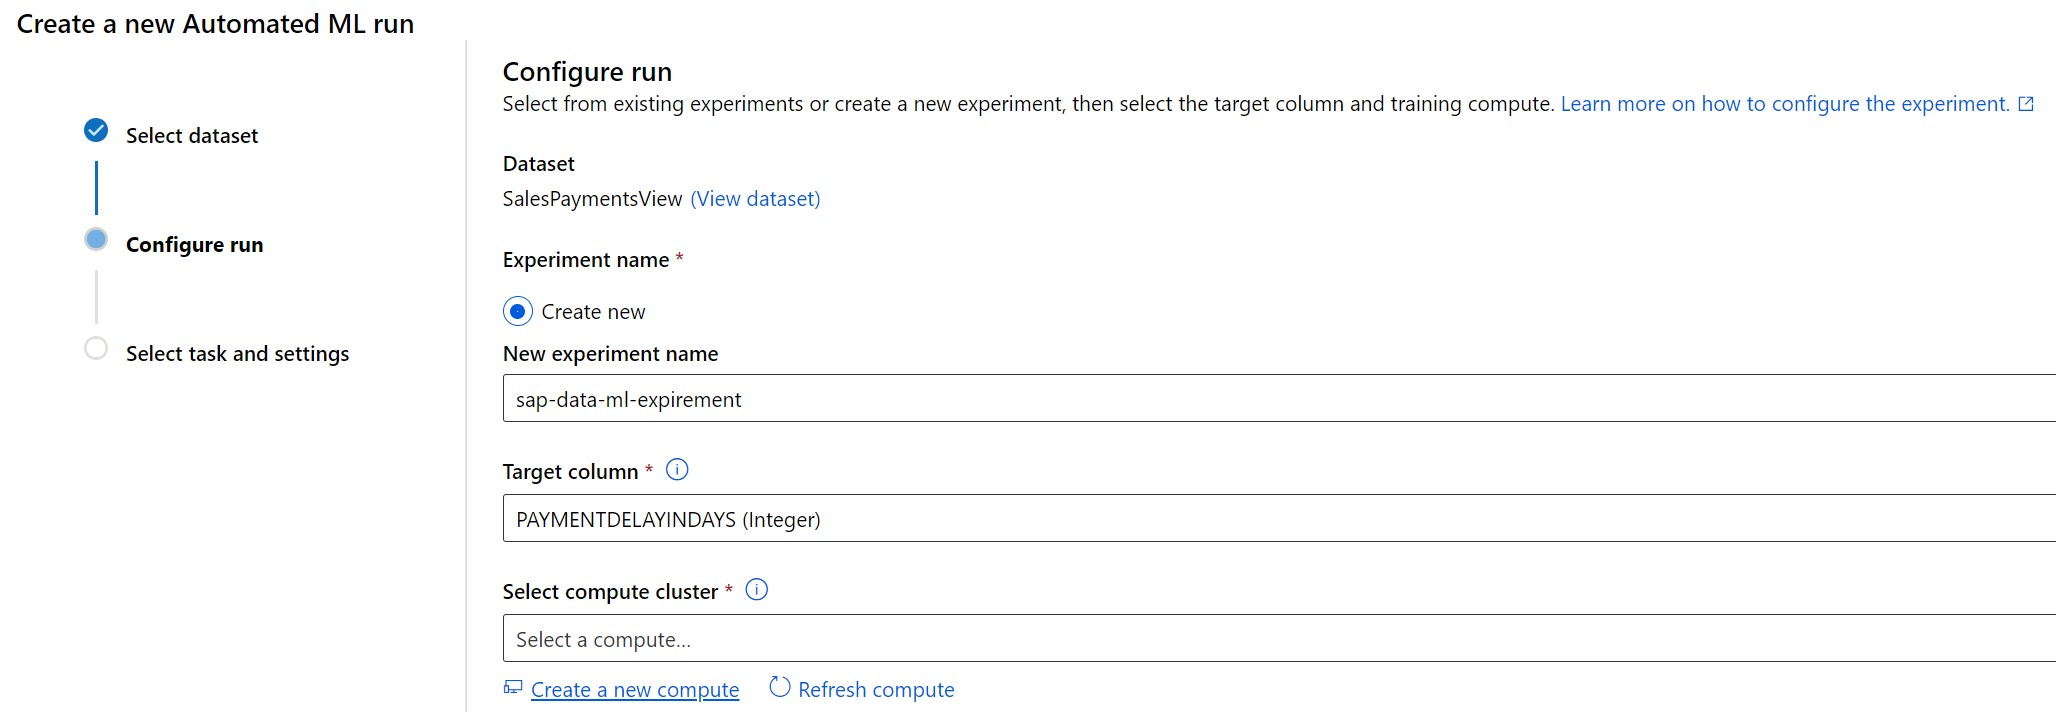
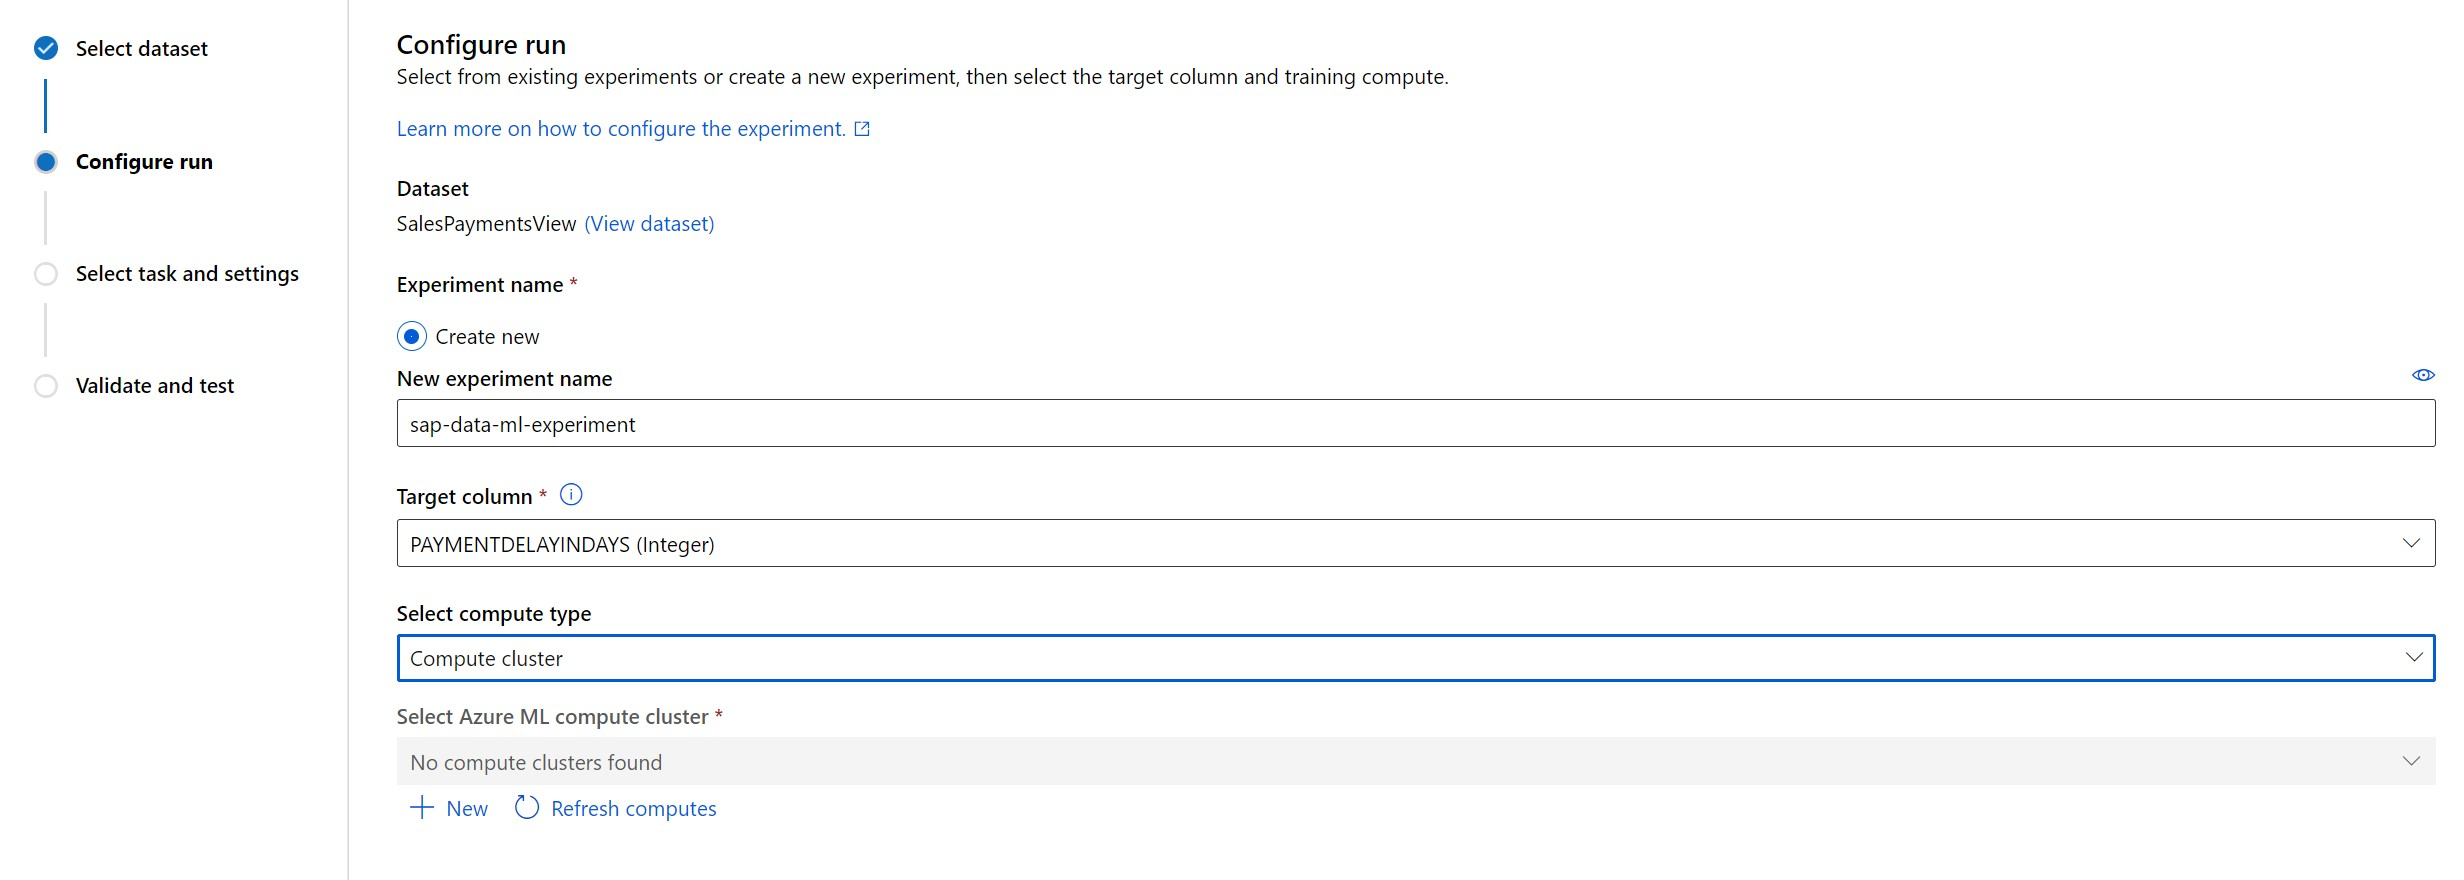
added new screenshots

diff --git a/PredictIncomingCashflow.md b/PredictIncomingCashflow.md
@@ -135,7 +135,7 @@ Create the dataset
 
 <img src="images/aml/ml4.jpg">
 
-3. Create a new compute that will be used to train your model. In this example we use a maximum of 3 nodes to increase the processing power.
+3. Create a new compute that will be used to train your model. As name we use `sap-data-ml-vm`. In this example we use a maximum of 3 nodes to increase the processing power.
 
 <img src="images/aml/ml5.jpg" height=500>
 <img src="images/aml/ml6.jpg">
@@ -156,7 +156,7 @@ Create the dataset
     <!-- >>>Note : You need to add `TensorFlowLinearRegressor`, `TensorFlowDNN` manually -->
     <!-- keep decisiontree? -->
 
-    3. `Save` and click on `Finish`
+    3. `Save`, `Next`, skip the optional steps and click on `Finish`
 
     <img src="images/aml/17-aml-studio.PNG" height= 400>
     <img src="images/aml/ml9.jpg" height=300>
@@ -165,7 +165,6 @@ Create the dataset
 
     <img src="images/aml/ml10.jpg" height = 400>
 
->Note : The ML run will take some time. You can start with the [PowerBI section](PowerBiVisualisation.md) and return here at a later moment.
 
 ## Deploy the best model
 In this step we will deploy the best model that has been trained by AutoML and test it.
